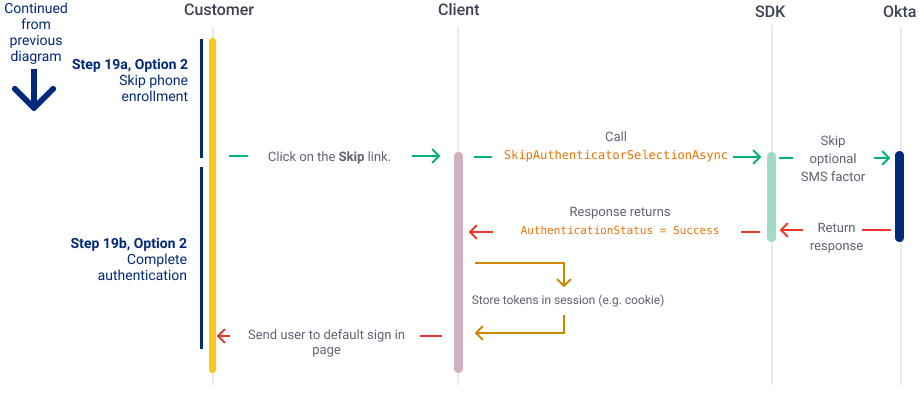
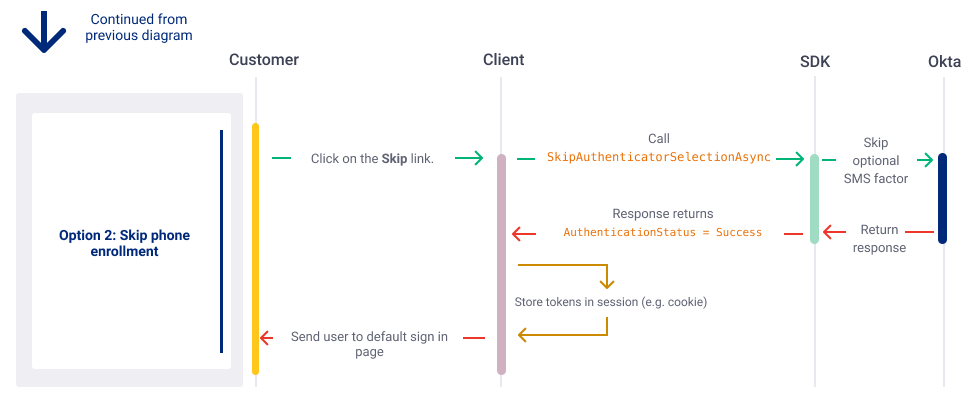
Updated headers and diagrams

diff --git a/packages/@okta/vuepress-site/docs/guides/oie-embedded-sdk-use-cases/oie-embedded-sdk-use-case-self-reg/aspnet/integrationsteps.md b/packages/@okta/vuepress-site/docs/guides/oie-embedded-sdk-use-cases/oie-embedded-sdk-use-case-self-reg/aspnet/integrationsteps.md
@@ -273,136 +273,136 @@ The remaining authenticator should display the phone factor to the user. Since t
 
 The user can either enroll in the phone factor or skip the phone factor. Your code should handle both scenarios that will be described in the following steps.
 
-### 18a, Option 1: Select phone authenticator
+### 18: Handle the phone authenticator options
 
-If the user selects the phone authenticator (instead of skipping it), the steps to enroll and verify are similar to the email factor verification flow in this section with subtle differences.
+#### Option 1: Enroll and verify the phone authenticator
 
-### 18b, Option 1: Start phone verification
+1. Start phone verification
 
-If the user selects the **phone** authenticator, a call to `EnrollAuthenticatorAsync` is made passing in the **phone** `AuthenticatorId`. If successful, the method should return an `AwaitingAuthenticatorEnrollmentData` response. The `AwaitingAuthenticatorEnrollmentData `response indicates that the enrollment data is required before continuing to verification.
+   If the user selects the **phone** authenticator (instead of skipping it), a call to `EnrollAuthenticatorAsync` is made passing in the **phone** `AuthenticatorId`. If successful, the method should return an `AwaitingAuthenticatorEnrollmentData` response. The `AwaitingAuthenticatorEnrollmentData `response indicates that the enrollment data is required before continuing to verification.
 
-In the use case to verify the phone authenticator, the phone number is required, and the user should be redirected to a page where they can enter in a phone number. See the following code snippet from the sample app.
+   In the use case to verify the phone authenticator, the phone number is required, and the user should be redirected to a page where they can enter in a phone number. See the following code snippet from the sample app.
 
-```csharp
-var enrollResponse = await _idxClient.EnrollAuthenticatorAsync(enrollAuthenticatorOptions,
-     (IIdxContext)Session["IdxContext"]);
-...
-
-switch (enrollResponse?.AuthenticationStatus)
-     {
-          ...
-          case AuthenticationStatus.AwaitingAuthenticatorEnrollmentData:
-               return RedirectToAction("EnrollPhoneAuthenticator", "Manage");
-          ...
-      }
-```
-
-### 18c, Option 1: Show phone entry page
-
-Build the phone number entry page that accepts the phone number. The user uses the phone number entry page to enroll and verify.
-
-<div class="common-image-format">
-
-![Verify phone](/img/oie-embedded-sdk/oie-embedded-sdk-use-case-simple-self-serv-screen-verify-phone-num.png
- "Verify phone")
-
-</div>
-
-> **Note:** The SDK requires that the phone number be in the following format: `+#######`, including the beginning plus (+) sign. See [Data Requirements - Phone number](/docs/guides/oie-embedded-sdk-common/aspnet/main/#phone-number).
-
-### 18d, Option 1: Submit phone number
-
-When the user enters their phone number and clicks the send code using the SMS button, a call to `EnrollAuthenticatorAsync` is made and passes the following values:
-
-* Authenticator ID
-* Phone number
-* Method type (only SMS is currently supported)
-
-> **Note:** Only SMS is currently supported for the phone authenticator type.
-
-The above values are passed using the `EnrollPhoneAuthenticatorOptions` parameter. See the following code snippet for more details.
-
-```csharp
- var enrollPhoneAuthenticatorOptions = new EnrollPhoneAuthenticatorOptions
-     {
-        AuthenticatorId = Session["phoneId"].ToString(),
-        PhoneNumber = model.PhoneNumber,
-        MethodType = AuthenticatorMethodType.Sms,
-     };
-
-var enrollResponse = await _idxClient.EnrollAuthenticatorAsync(enrollPhoneAuthenticatorOptions,
+   ```csharp
+   var enrollResponse = await _idxClient.EnrollAuthenticatorAsync(enrollAuthenticatorOptions,
       (IIdxContext)Session["IdxContext"]);
-      Session["IdxContext"] = enrollResponse.IdxContext;
-```
-
-### 18e, Option 1: Handle the submit response
-
-If the call to `EnrollAuthenticatorAsync` is successful, it should return an `AuthenticationStatus` of `AwaitingAuthenticatorVerification`. When `AwaitingAuthenticatorVerification` is returned, a code is sent to the phone number through SMS.
-
-In the following code snippet, the user is redirected to a reusable code verification page that handles the code for both email and SMS. Your implementation may vary.
-
-```csharp
-var enrollResponse = await _idxClient.EnrollAuthenticatorAsync(enrollPhoneAuthenticatorOptions,
-    (IIdxContext)Session["IdxContext"]);
-    ...
-if (enrollResponse.AuthenticationStatus ==
-    AuthenticationStatus.AwaitingAuthenticatorVerification)
-    {
-       return RedirectToAction("VerifyAuthenticator", "Manage");
-    }
-```
-
-### 18f, Option 1: Display phone verification code page
-
-Build a page that accepts the code sent to your phone number through SMS. Depending on your implementation, the page can be the same page that verifies the email code or different. The sample app reuses the same page for both email and phone verification.
-
-<div class="common-image-format">
-
-![Enter code from phone](/img/oie-embedded-sdk/oie-embedded-sdk-use-case-simple-self-serv-screen-verify-phone-code.png
- "Enter code from phone")
-
-</div>
-
-### 18g, Option 1: Submit phone code
-
-After the user enters the phone code and clicks verify, a call is made to `VerifyAuthenticatorAsync`. In the phone verification use case, the code that passes into `VerifyAuthenticatorAsync` is the code that was sent through SMS to the phone number.
-
-T)
-
-```csharp
-var idxAuthClient = new IdxClient(null);
-           var verifyAuthenticatorOptions = new VerifyAuthenticatorOptions
-           {
-               Code = code,
-           };
-
-var authnResponse = await idxAuthClient.VerifyAuthenticatorAsync(verifyAuthenticatorOptions, (IIdxContext)Session["idxContext"]);
-```
-
-### 18h, Option 1: Complete authentication
-
-The next step is to handle the response from `VerifyAuthenticatorAsync`. If the phone SMS code was valid, the method should return an `AuthenticationStatus` of `Success`. This status signifies that no more factors (required or optional) are waiting to be enrolled and verified.
-
-If the steps described in[Set up your Okta org (for multifactor use cases)](/docs/guides/oie-embedded-common-org-setup/aspnet/main/#set-up-your-okta-org-for-multi-factor-use-cases) were properly followed, the user should now be registered with no more factors to be verified. The user should then be sent to the default page after they have successfully registered. In the sample application, the user is sent to the user profile page.
-
-```csharp
-var authnResponse = await _idxClient.VerifyAuthenticatorAsync(verifyAuthenticatorOptions, (IIdxContext)Session["idxContext"]);
-Session["idxContext"] = authnResponse.IdxContext;
-
-switch (authnResponse.AuthenticationStatus)
-{
    ...
-   case AuthenticationStatus.Success:
-         ClaimsIdentity identity = await
-         AuthenticationHelper.GetIdentityFromTokenResponseAsync(_idxClient.Configuration,
-         authnResponse.TokenInfo);
-         _authenticationManager.SignIn(new AuthenticationProperties(), identity);
-         return RedirectToAction("Index", "Home");
-   ...
-}
-```
 
-### 19a, Option 2: Skip phone enrollment
+   switch (enrollResponse?.AuthenticationStatus)
+      {
+            ...
+            case AuthenticationStatus.AwaitingAuthenticatorEnrollmentData:
+                  return RedirectToAction("EnrollPhoneAuthenticator", "Manage");
+            ...
+         }
+   ```
+
+1. Show phone entry page
+
+   Build the phone number entry page that accepts the phone number. The user uses the phone number entry page to enroll and verify.
+
+   <div class="common-image-format">
+
+   ![Verify phone](/img/oie-embedded-sdk/oie-embedded-sdk-use-case-simple-self-serv-screen-verify-phone-num.png
+   "Verify phone")
+
+   </div>
+
+   > **Note:** The SDK requires that the phone number be in the following format: `+#######`, including the beginning plus (+) sign. See [Data Requirements - Phone number](/docs/guides/oie-embedded-sdk-common/aspnet/main/#phone-number).
+
+1. Submit phone number
+
+   When the user enters their phone number and clicks the send code using the SMS button, a call to `EnrollAuthenticatorAsync` is made and passes the following values:
+
+   * Authenticator ID
+   * Phone number
+   * Method type (only SMS is currently supported)
+
+   > **Note:** Only SMS is currently supported for the phone authenticator type.
+
+   The above values are passed using the `EnrollPhoneAuthenticatorOptions` parameter. See the following code snippet for more details.
+
+   ```csharp
+   var enrollPhoneAuthenticatorOptions = new EnrollPhoneAuthenticatorOptions
+      {
+         AuthenticatorId = Session["phoneId"].ToString(),
+         PhoneNumber = model.PhoneNumber,
+         MethodType = AuthenticatorMethodType.Sms,
+      };
+
+   var enrollResponse = await _idxClient.EnrollAuthenticatorAsync(enrollPhoneAuthenticatorOptions,
+         (IIdxContext)Session["IdxContext"]);
+         Session["IdxContext"] = enrollResponse.IdxContext;
+   ```
+
+1. Handle the submit response
+
+   If the call to `EnrollAuthenticatorAsync` is successful, it should return an `AuthenticationStatus` of `AwaitingAuthenticatorVerification`. When `AwaitingAuthenticatorVerification` is returned, a code is sent to the phone number through SMS.
+
+   In the following code snippet, the user is redirected to a reusable code verification page that handles the code for both email and SMS. Your implementation may vary.
+
+   ```csharp
+   var enrollResponse = await _idxClient.EnrollAuthenticatorAsync(enrollPhoneAuthenticatorOptions,
+      (IIdxContext)Session["IdxContext"]);
+      ...
+   if (enrollResponse.AuthenticationStatus ==
+      AuthenticationStatus.AwaitingAuthenticatorVerification)
+      {
+         return RedirectToAction("VerifyAuthenticator", "Manage");
+      }
+   ```
+
+1. Display phone verification code page
+
+   Build a page that accepts the code sent to your phone number through SMS. Depending on your implementation, the page can be the same page that verifies the email code or different. The sample app reuses the same page for both email and phone verification.
+
+   <div class="common-image-format">
+
+   ![Enter code from phone](/img/oie-embedded-sdk/oie-embedded-sdk-use-case-simple-self-serv-screen-verify-phone-code.png
+   "Enter code from phone")
+
+   </div>
+
+1. Submit phone code
+
+   After the user enters the phone code and clicks verify, a call is made to `VerifyAuthenticatorAsync`. In the phone verification use case, the code that passes into `VerifyAuthenticatorAsync` is the code that was sent through SMS to the phone number.
+
+   T)
+
+   ```csharp
+   var idxAuthClient = new IdxClient(null);
+            var verifyAuthenticatorOptions = new VerifyAuthenticatorOptions
+            {
+                  Code = code,
+            };
+
+   var authnResponse = await idxAuthClient.VerifyAuthenticatorAsync(verifyAuthenticatorOptions, (IIdxContext)Session["idxContext"]);
+   ```
+
+1. Complete authentication
+
+   The next step is to handle the response from `VerifyAuthenticatorAsync`. If the phone SMS code was valid, the method should return an `AuthenticationStatus` of `Success`. This status signifies that no more factors (required or optional) are waiting to be enrolled and verified.
+
+   If the steps described in[Set up your Okta org (for multifactor use cases)](/docs/guides/oie-embedded-common-org-setup/aspnet/main/#set-up-your-okta-org-for-multi-factor-use-cases) were properly followed, the user should now be registered with no more factors to be verified. The user should then be sent to the default page after they have successfully registered. In the sample application, the user is sent to the user profile page.
+
+   ```csharp
+   var authnResponse = await _idxClient.VerifyAuthenticatorAsync(verifyAuthenticatorOptions, (IIdxContext)Session["idxContext"]);
+   Session["idxContext"] = authnResponse.IdxContext;
+
+   switch (authnResponse.AuthenticationStatus)
+   {
+      ...
+      case AuthenticationStatus.Success:
+            ClaimsIdentity identity = await
+            AuthenticationHelper.GetIdentityFromTokenResponseAsync(_idxClient.Configuration,
+            authnResponse.TokenInfo);
+            _authenticationManager.SignIn(new AuthenticationProperties(), identity);
+            return RedirectToAction("Index", "Home");
+      ...
+   }
+   ```
+
+#### Option 2: Skip phone enrollment
 
 If the user opts to skip phone enrollment, a call to `SkipAuthenticatorSelectionAsync` needs to be made. This method skips phone enrollment and eliminates the need to verify the factor. See the following code snippet for more details.
 
@@ -423,8 +423,6 @@ switch (skipSelectionResponse.AuthenticationStatus)
 ```
 
 The method `SkipAuthenticatorSelectionAsync` can return these different response statuses: `Success` or `Terminal`. For a `Success` status, the user is signed in, the response is stored in session, and the user is redirected to the default sign-in page. In the csample app, the default sign-in page is the user profile page.
-
-### 19b, Option 2: Complete authentication
 
 After the factor verifications are successful and there are no more authenticators to enroll and verify, the user is successfully registered and can be sent to the default sign-in page. In the sample app, the default sign-in page is the user profile page. See [Get user profile information](/docs/guides/oie-embedded-sdk-use-cases/aspnet/oie-embedded-sdk-use-case-basic-sign-in/#get-user-profile-information) for more details on how to fetch user information.
 
